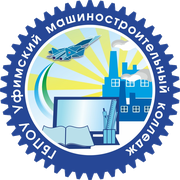
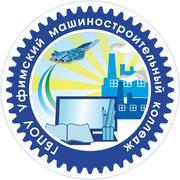
Круглый логотип, кнопка «Открыть», часы 9:00–17:00, фикс полки, сброс кэша v3, исправлены баги читалки

diff --git a/index.html b/index.html
@@ -6,9 +6,9 @@
   <title>Библиотечный фонд — Уфимский машиностроительный колледж</title>
   <meta name="description" content="Библиотечный фонд ГБПОУ «Уфимский машиностроительный колледж»: электронный каталог с поиском, чтение книг онлайн, учебники, классика, справочники и краеведение. Борисоглебская, 32.">
   <meta name="theme-color" content="#264796">
-  <link rel="icon" href="assets/logo-96.png" type="image/png">
-  <link rel="apple-touch-icon" href="assets/apple-touch-icon.png">
-  <link rel="stylesheet" href="css/styles.css">
+  <link rel="icon" href="assets/logo-96.png?v=3" type="image/png">
+  <link rel="apple-touch-icon" href="assets/apple-touch-icon.png?v=3">
+  <link rel="stylesheet" href="css/styles.css?v=3">
 </head>
 <body>
   <a class="skip-link" href="#main">Перейти к содержанию</a>
@@ -17,7 +17,7 @@
     <div class="container header__inner">
       <a class="logo" href="#top" aria-label="Библиотека Уфимского машиностроительного колледжа — на главную">
         <span class="logo__mark">
-          <img src="assets/logo.png" alt="Логотип ГБПОУ «Уфимский машиностроительный колледж»" width="56" height="56">
+          <img src="assets/logo-round.png?v=3" alt="Логотип ГБПОУ «Уфимский машиностроительный колледж»" width="56" height="56">
         </span>
         <span class="logo__text">
           <strong>Библиотека УМК</strong>
@@ -79,7 +79,7 @@
               <svg viewBox="0 0 24 24" fill="none" stroke="currentColor" stroke-width="1.8" stroke-linecap="round" aria-hidden="true">
                 <circle cx="12" cy="12" r="9"/><path d="M12 7.5V12l3 2"/>
               </svg>
-              Пн–пт, 8:00–17:00
+              Пн–пт, 9:00–17:00
             </span>
           </div>
 
@@ -142,7 +142,7 @@
           <p>
             Каждое издание описано в электронном каталоге: видно, на какой полке оно
             стоит, сколько экземпляров в фонде и свободно ли издание. Часть книг можно
-            открыть и прочитать прямо на сайте — кнопка «Читать» в карточке издания.
+            открыть и прочитать прямо на сайте — кнопка «Открыть» в карточке издания.
           </p>
           <ul class="checklist">
             <li>Выдача на дом на 14 дней, учебники — на весь учебный год</li>
@@ -224,7 +224,7 @@
             <p class="eyebrow">Электронный каталог</p>
             <h2>Найдите нужную книгу</h2>
           </div>
-          <p class="section__note">Издания из фонда колледжа. Кнопка «Читать» открывает текст онлайн; наличие уточняйте у библиотекаря.</p>
+          <p class="section__note">Издания из фонда колледжа. Кнопка «Открыть» открывает текст онлайн; наличие уточняйте у библиотекаря.</p>
         </div>
 
         <div class="toolbar">
@@ -316,8 +316,8 @@
         <aside class="hours-card">
           <h3>Часы работы</h3>
           <ul class="hours">
-            <li><span>Понедельник — пятница</span><strong>8:00 — 17:00</strong></li>
-            <li><span>Суббота</span><strong>9:00 — 14:00</strong></li>
+            <li><span>Понедельник — пятница</span><strong>9:00 — 17:00</strong></li>
+            <li><span>Суббота</span><strong class="muted">выходной</strong></li>
             <li><span>Воскресенье</span><strong class="muted">выходной</strong></li>
             <li class="hours__pause"><span>Технический перерыв</span><strong>13:00 — 13:30</strong></li>
           </ul>
@@ -360,7 +360,7 @@
               <span class="contact-list__icon" aria-hidden="true">
                 <svg viewBox="0 0 24 24" fill="none" stroke="currentColor" stroke-width="1.8" stroke-linecap="round" stroke-linejoin="round"><circle cx="12" cy="12" r="9"/><path d="M12 7.5V12l3 2"/></svg>
               </span>
-              <span><strong>Режим работы</strong><span>Пн–пт 8:00–17:00, сб 9:00–14:00</span></span>
+              <span><strong>Режим работы</strong><span>Пн–пт 9:00–17:00, сб и вс — выходной</span></span>
             </li>
           </ul>
         </div>
@@ -388,7 +388,7 @@
       <div class="footer__brand">
         <a class="logo logo--footer" href="#top">
           <span class="logo__mark">
-            <img src="assets/logo.png" alt="" width="56" height="56">
+            <img src="assets/logo-round.png?v=3" alt="" width="56" height="56">
           </span>
           <span class="logo__text">
             <strong>Библиотека УМК</strong>
@@ -456,9 +456,9 @@
 
   <div class="toast" id="toast" role="status" aria-live="polite"></div>
 
-  <script src="js/data.js"></script>
-  <script src="js/texts.js"></script>
-  <script src="js/app.js"></script>
-  <script src="js/reader.js"></script>
+  <script src="js/data.js?v=3"></script>
+  <script src="js/texts.js?v=3"></script>
+  <script src="js/app.js?v=3"></script>
+  <script src="js/reader.js?v=3"></script>
 </body>
 </html>

diff --git a/js/texts.js b/js/texts.js
@@ -152,6 +152,84 @@ window.LIBRARY_TEXTS = {
     ]
   },
 
+  /* ── А. С. Пушкин. Узник (1822) ────────────────────── */
+  'pushkin-uznik': {
+    source: 'А. С. Пушкин, 1822. Общественное достояние.',
+    chapters: [
+      {
+        title: null,
+        blocks: [
+          {
+            type: 'verse',
+            lines: [
+              'Сижу за решёткой в темнице сырой.',
+              'Вскормлённый в неволе орёл молодой,',
+              'Мой грустный товарищ, махая крылом,',
+              'Кровавую пищу клюёт под окном,'
+            ]
+          },
+          {
+            type: 'verse',
+            lines: [
+              'Клюёт, и бросает, и смотрит в окно,',
+              'Как будто со мною задумал одно;',
+              'Зовёт меня взглядом и криком своим',
+              'И вымолвить хочет: «Давай улетим!'
+            ]
+          },
+          {
+            type: 'verse',
+            lines: [
+              'Мы вольные птицы; пора, брат, пора!',
+              'Туда, где за тучей белеет гора,',
+              'Туда, где синеют морские края,',
+              'Туда, где гуляем лишь ветер… да я!..»'
+            ]
+          }
+        ]
+      }
+    ]
+  },
+
+  /* ── М. Ю. Лермонтов. Тучи (1840) ──────────────────── */
+  'lermontov-tuchi': {
+    source: 'М. Ю. Лермонтов, 1840. Общественное достояние.',
+    chapters: [
+      {
+        title: null,
+        blocks: [
+          {
+            type: 'verse',
+            lines: [
+              'Тучки небесные, вечные странники!',
+              'Степью лазурною, цепью жемчужною',
+              'Мчитесь вы, будто как я же, изгнанники',
+              'С милого севера в сторону южную.'
+            ]
+          },
+          {
+            type: 'verse',
+            lines: [
+              'Кто же вас гонит: судьбы ли решение?',
+              'Зависть ли тайная? злоба ль открытая?',
+              'Или на вас тяготит преступление?',
+              'Или друзей клевета ядовитая?'
+            ]
+          },
+          {
+            type: 'verse',
+            lines: [
+              'Нет, вам наскучили нивы бесплодные…',
+              'Чужды вам страсти и чужды страдания;',
+              'Вечно холодные, вечно свободные,',
+              'Нет у вас родины, нет вам изгнания.'
+            ]
+          }
+        ]
+      }
+    ]
+  },
+
   /* ── И. А. Крылов. Ворона и Лисица (1807) ──────────── */
   'krylov-vorona-i-lisitsa': {
     source: 'И. А. Крылов, 1807. Общественное достояние.',

diff --git a/js/reader.js b/js/reader.js
@@ -28,6 +28,7 @@
   const STORE_POS = 'umk-reader-pos';
 
   let currentBook = null;
+  let fontSize = 1.125;
   let chapters = [];
   let chapterIndex = 0;
   let lastFocused = null;
@@ -164,10 +165,11 @@
   function savePosition() {
     if (!currentBook) return;
     window.clearTimeout(saveTimer);
+    const bookId = currentBook.id;
     saveTimer = window.setTimeout(() => {
       const all = store.get(STORE_POS, {});
       const max = scrollEl.scrollHeight - scrollEl.clientHeight;
-      all[currentBook.id] = {
+      all[bookId] = {
         chapter: chapterIndex,
         ratio: max > 0 ? scrollEl.scrollTop / max : 0,
         updated: Date.now()
@@ -293,9 +295,10 @@
   /* ---------- Настройки ---------- */
 
   function applyFont(size) {
-    const clamped = Math.min(1.6, Math.max(0.95, size));
-    pageEl.style.setProperty('--reader-font', clamped + 'rem');
-    store.set(STORE_FONT, clamped);
+    fontSize = Math.min(1.6, Math.max(0.95, Math.round(size * 1000) / 1000));
+    pageEl.style.setProperty('--reader-font', fontSize + 'rem');
+    reader.style.setProperty('--reader-font', fontSize + 'rem');
+    store.set(STORE_FONT, fontSize);
   }
 
   function applyTheme(theme) {
@@ -311,14 +314,8 @@
   prevBtn.addEventListener('click', () => goToChapter(chapterIndex - 1));
   nextBtn.addEventListener('click', () => goToChapter(chapterIndex + 1));
 
-  fontUp.addEventListener('click', () => {
-    const current = parseFloat(getComputedStyle(pageEl).fontSize) / 16;
-    applyFont(current + 0.075);
-  });
-  fontDown.addEventListener('click', () => {
-    const current = parseFloat(getComputedStyle(pageEl).fontSize) / 16;
-    applyFont(current - 0.075);
-  });
+  fontUp.addEventListener('click', () => applyFont(fontSize + 0.075));
+  fontDown.addEventListener('click', () => applyFont(fontSize - 0.075));
 
   themeBtn.addEventListener('click', () => {
     const order = ['light', 'sepia', 'night'];

diff --git a/js/data.js b/js/data.js
@@ -141,6 +141,39 @@ window.LIBRARY_BOOKS = [
 
   /* ── Краеведение ───────────────────────────────────── */
   {
+    id: 'pushkin-uznik',
+    title: 'Узник',
+    author: 'А. С. Пушкин',
+    category: 'Художественная',
+    year: 2020,
+    publisher: 'Детская литература',
+    pages: 3,
+    isbn: '978-5-08-006425-2',
+    shelf: 'Х-21',
+    total: 5,
+    free: 5,
+    cover: ['#0077c8', '#264796'],
+    annotation:
+      'Стихотворение 1822 года, написанное в кишинёвской ссылке: разговор с орлом в неволе и мечта о воле. Одно из самых известных лирических произведений Пушкина.'
+  },
+  {
+    id: 'lermontov-tuchi',
+    title: 'Тучи',
+    author: 'М. Ю. Лермонтов',
+    category: 'Художественная',
+    year: 2020,
+    publisher: 'Детская литература',
+    pages: 3,
+    isbn: '978-5-08-006426-9',
+    shelf: 'Х-22',
+    total: 6,
+    free: 6,
+    cover: ['#29b1e8', '#0179b3'],
+    annotation:
+      'Стихотворение 1840 года, написанное перед отъездом на Кавказ. Сравнение себя с тучами-изгнанниками — о свободе и одиночестве.'
+  },
+
+  {
     id: 'bashkir-tales',
     title: 'Башкирские народные сказки',
     author: 'Сборник, сост. Н. Т. Зарипов',

diff --git a/css/styles.css b/css/styles.css
@@ -226,6 +226,10 @@ h1 em {
   place-items: center;
   width: 52px; height: 52px;
   flex-shrink: 0;
+  border-radius: 50%;
+  overflow: hidden;
+  background: #fff;
+  box-shadow: 0 0 0 1px rgba(38, 71, 150, 0.14);
 }
 .logo__mark img {
   width: 100%;
@@ -1743,3 +1747,31 @@ body.is-reading { overflow: hidden; }
   font-size: 0.9375rem;
 }
 .btn--read--lg svg { width: 17px; height: 17px; }
+
+
+/* =========================================================
+   Гарантия раскладки первого экрана:
+   полка, часы и плашка новинок — отдельные строки flex-колонки,
+   ни один элемент не позиционируется поверх другого
+   ========================================================= */
+.hero__art { display: flex; flex-direction: column; }
+.hero__art-top,
+.hero__art-bottom { position: static; flex: 0 0 auto; }
+.shelf {
+  position: relative;
+  flex: 1 1 auto;
+  min-height: 132px;
+  max-height: 240px;
+  align-self: stretch;
+}
+.shelf > span { position: relative; }
+
+@media (max-width: 680px) {
+  .shelf { min-height: 112px; max-height: 160px; }
+}
+
+/* ---------- Явные базовые классы кнопок ---------- */
+.btn--primary { background: var(--accent); color: #fff; }
+.btn--primary:hover { background: var(--accent-2); }
+.bar-row { display: block; }
+.contacts__map { min-width: 0; }

diff --git a/js/app.js b/js/app.js
@@ -62,7 +62,7 @@
 
   function readButton(book, extraClass) {
     return `<button class="btn--read ${extraClass || ''}" type="button" data-read="${book.id}">
-      ${readIcon} Читать
+      ${readIcon} Открыть
     </button>`;
   }
 

diff --git a/README.md b/README.md
@@ -15,7 +15,7 @@ js/texts.js         полные тексты произведений: window.L
 js/app.js           каталог, поиск, фильтры, сортировка, карточка книги
 js/reader.js        режим чтения: темы, размер шрифта, прогресс, оглавление
 texts/              сюда кладутся тексты вида <id книги>.txt (см. texts/README.md)
-assets/logo.png     логотип колледжа (крутится в шапке)
+assets/logo-round.png  круглый логотип колледжа (медленно крутится в шапке)
 ```
 
 ## Как запустить
@@ -37,13 +37,14 @@ python3 -m http.server 8000
 - **Первый экран** — название колледжа, быстрый поиск, полка из «корешков» книг.
 - **Фонд в цифрах** — счётчики, которые анимируются при появлении в кадре.
 - **О фонде** — описание и карточка состава фонда.
-- **Каталог** — 21 издание: поиск по названию, автору, разделу и аннотации,
+- **Каталог** — 23 издания: поиск по названию, автору, разделу и аннотации,
   фильтр по разделам, сортировка, «показать ещё», карточка издания с шифром,
   полкой и количеством экземпляров.
-- **Чтение онлайн** — кнопка «Читать» в карточке и в окне издания открывает
+- **Чтение онлайн** — кнопка «Открыть» в карточке и в окне издания открывает
   полноэкранную читалку.
 - **Как записаться** — три шага и часы работы.
-- **Контакты** — Борисоглебская, 32, административный корпус, 1 этаж.
+- **Контакты** — Борисоглебская, 32, административный корпус, 1 этаж;
+  часы работы: пн–пт 9:00–17:00, суббота и воскресенье — выходной.
 
 ## Режим чтения
 
@@ -112,7 +113,9 @@ window.LIBRARY_TEXTS = {
 - Цвета: переменные `--navy`, `--blue`, `--cyan`, `--yellow`, `--green` и
   производные от них в начале `css/styles.css`.
 - Название, адрес, телефон, часы работы — в `index.html`.
-- Логотип — `assets/logo.png` (шапка, подвал, иконка сайта).
+- Логотип — `assets/logo-round.png` (шапка, подвал, иконка сайта).
+- После правок CSS/JS меняйте `?v=N` в ссылках `index.html`, чтобы браузеры
+  не показывали старую версию из кэша.
 - Скорость вращения логотипа — `animation: logo-spin 32s` в `css/styles.css`.
 
 ## Доступность и адаптив
